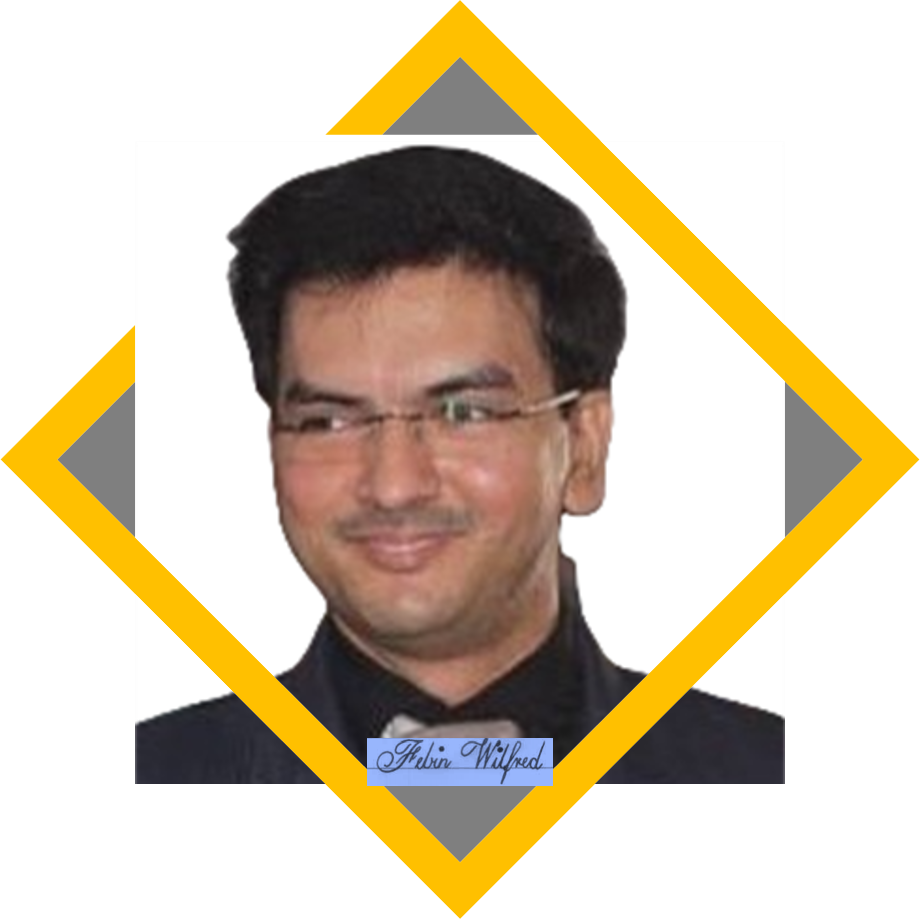
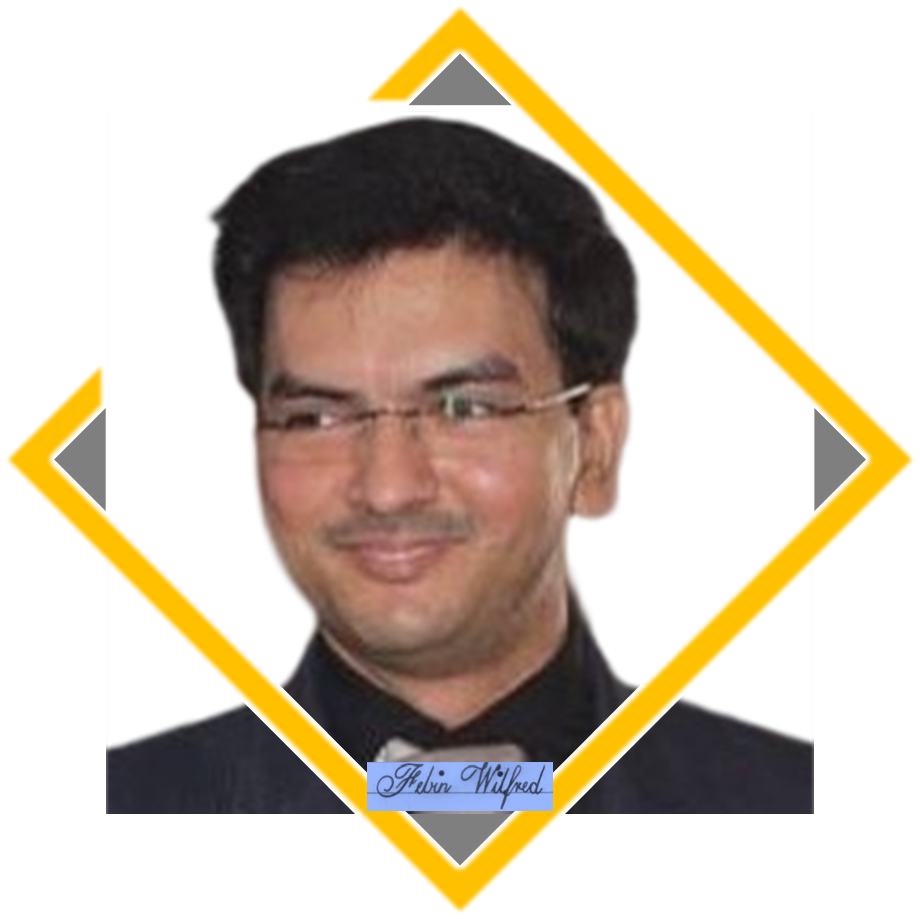
Version 003

Changed region(s): [[0.0, 0.0, 1.0, 1.0]]

diff --git a/index.html b/index.html
@@ -5,14 +5,15 @@
     <meta http-equiv="X-UA-Compatible" content="IE=edge">
     <meta name="viewport" content="width=device-width, initial-scale=1.0">
     <title>Document</title>
+    <link rel="stylesheet" href="https://cdnjs.cloudflare.com/ajax/libs/font-awesome/6.4.0/css/all.min.css" integrity="sha512-iecdLmaskl7CVkqkXNQ/ZH/XLlvWZOJyj7Yy7tcenmpD1ypASozpmT/E0iPtmFIB46ZmdtAc9eNBvH0H/ZpiBw==" crossorigin="anonymous" referrerpolicy="no-referrer" />
     <link href="https://cdn.jsdelivr.net/npm/bootstrap@5.3.0/dist/css/bootstrap.min.css" rel="stylesheet" integrity="sha384-9ndCyUaIbzAi2FUVXJi0CjmCapSmO7SnpJef0486qhLnuZ2cdeRhO02iuK6FUUVM" crossorigin="anonymous"> 
     <script src="https://cdn.jsdelivr.net/npm/bootstrap@5.3.0/dist/js/bootstrap.bundle.min.js" integrity="sha384-geWF76RCwLtnZ8qwWowPQNguL3RmwHVBC9FhGdlKrxdiJJigb/j/68SIy3Te4Bkz" crossorigin="anonymous"></script>
-    <link rel="stylesheet" href="febin.css">
-  </head> -->
+    <link rel="stylesheet" href="./febin.css">
+  </head> 
 
-  <body style="background-color: black;">
+  <body style="background-color: black;" class="container-fluid">
     <!-- Section 1: Heading -->
-    <div class="container-fluid me-3">
+    <div class="container-fluid mt-3">
       <h1 class="text-end">
         Febin<span> Wilfred</span>
       </h1>
@@ -32,7 +33,7 @@
               <a class="nav-link active text-white fs-5" aria-current="page" href="#"><strong>Home </strong></a>
             </li>
             <li class="nav-item">
-              <a class="nav-link text-success fs-5" href="#"><strong>About</strong></a>
+              <a class="nav-link text-success fs-5" href="#"><strong class="c1">About</strong></a>
             </li>
             <li class="nav-item">
               <a class="nav-link text-white fs-5" href="#"><strong>Contact</strong></a>
@@ -132,11 +133,29 @@
             <!-- <p>I have also worn the hat of an Assistant Professor, Trainer, Project Scientist, and Project Coordinator.</p>   -->
         </div>
         <div class="col-6">
-          <img class="c1" src="./images/ProfessionalPhoto.png" alt="No image found"></img> -->
+          <img class="c2" src="./images/ProfessionalPhoto.png" alt="No image found"></img> 
         </div>
       </div>
     </div>
-  
-  
+    <br>
+    <br>
+    <br>
+    <br>
+    <br>
+
+    <!-- Section 6: Counter -->
+    <div class="container">
+      <div class="row">
+        <div class="col-md-3">
+
+          <p>150</p>
+          <p>projects completed</p>
+        </div>
+      </div>
+    </div>
+    
+    
+    
+<!-- <i class="fa-brands fa-5x fa-twitter"></i>   -->
 </body>
 </html>

diff --git a/febin.css b/febin.css
@@ -1,3 +1,5 @@
+@import url('https://fonts.googleapis.com/css2?family=Dancing+Script:wght@700&display=swap');
+
 body
     {
         border: 0px;
@@ -11,17 +13,22 @@ h1
 span
     {
         color: white;
+        /* font-family: 'Dancing Script', cursive; */
     }
 hr
     {
         color: white;
+    }
+.c1
+    {
+        color: yellow;
     }
 p
     {
         color: white    ;
         font-size: 36px;
     }
-.c1
+.c2
     {
         height: 100%;
         width: 100%;
